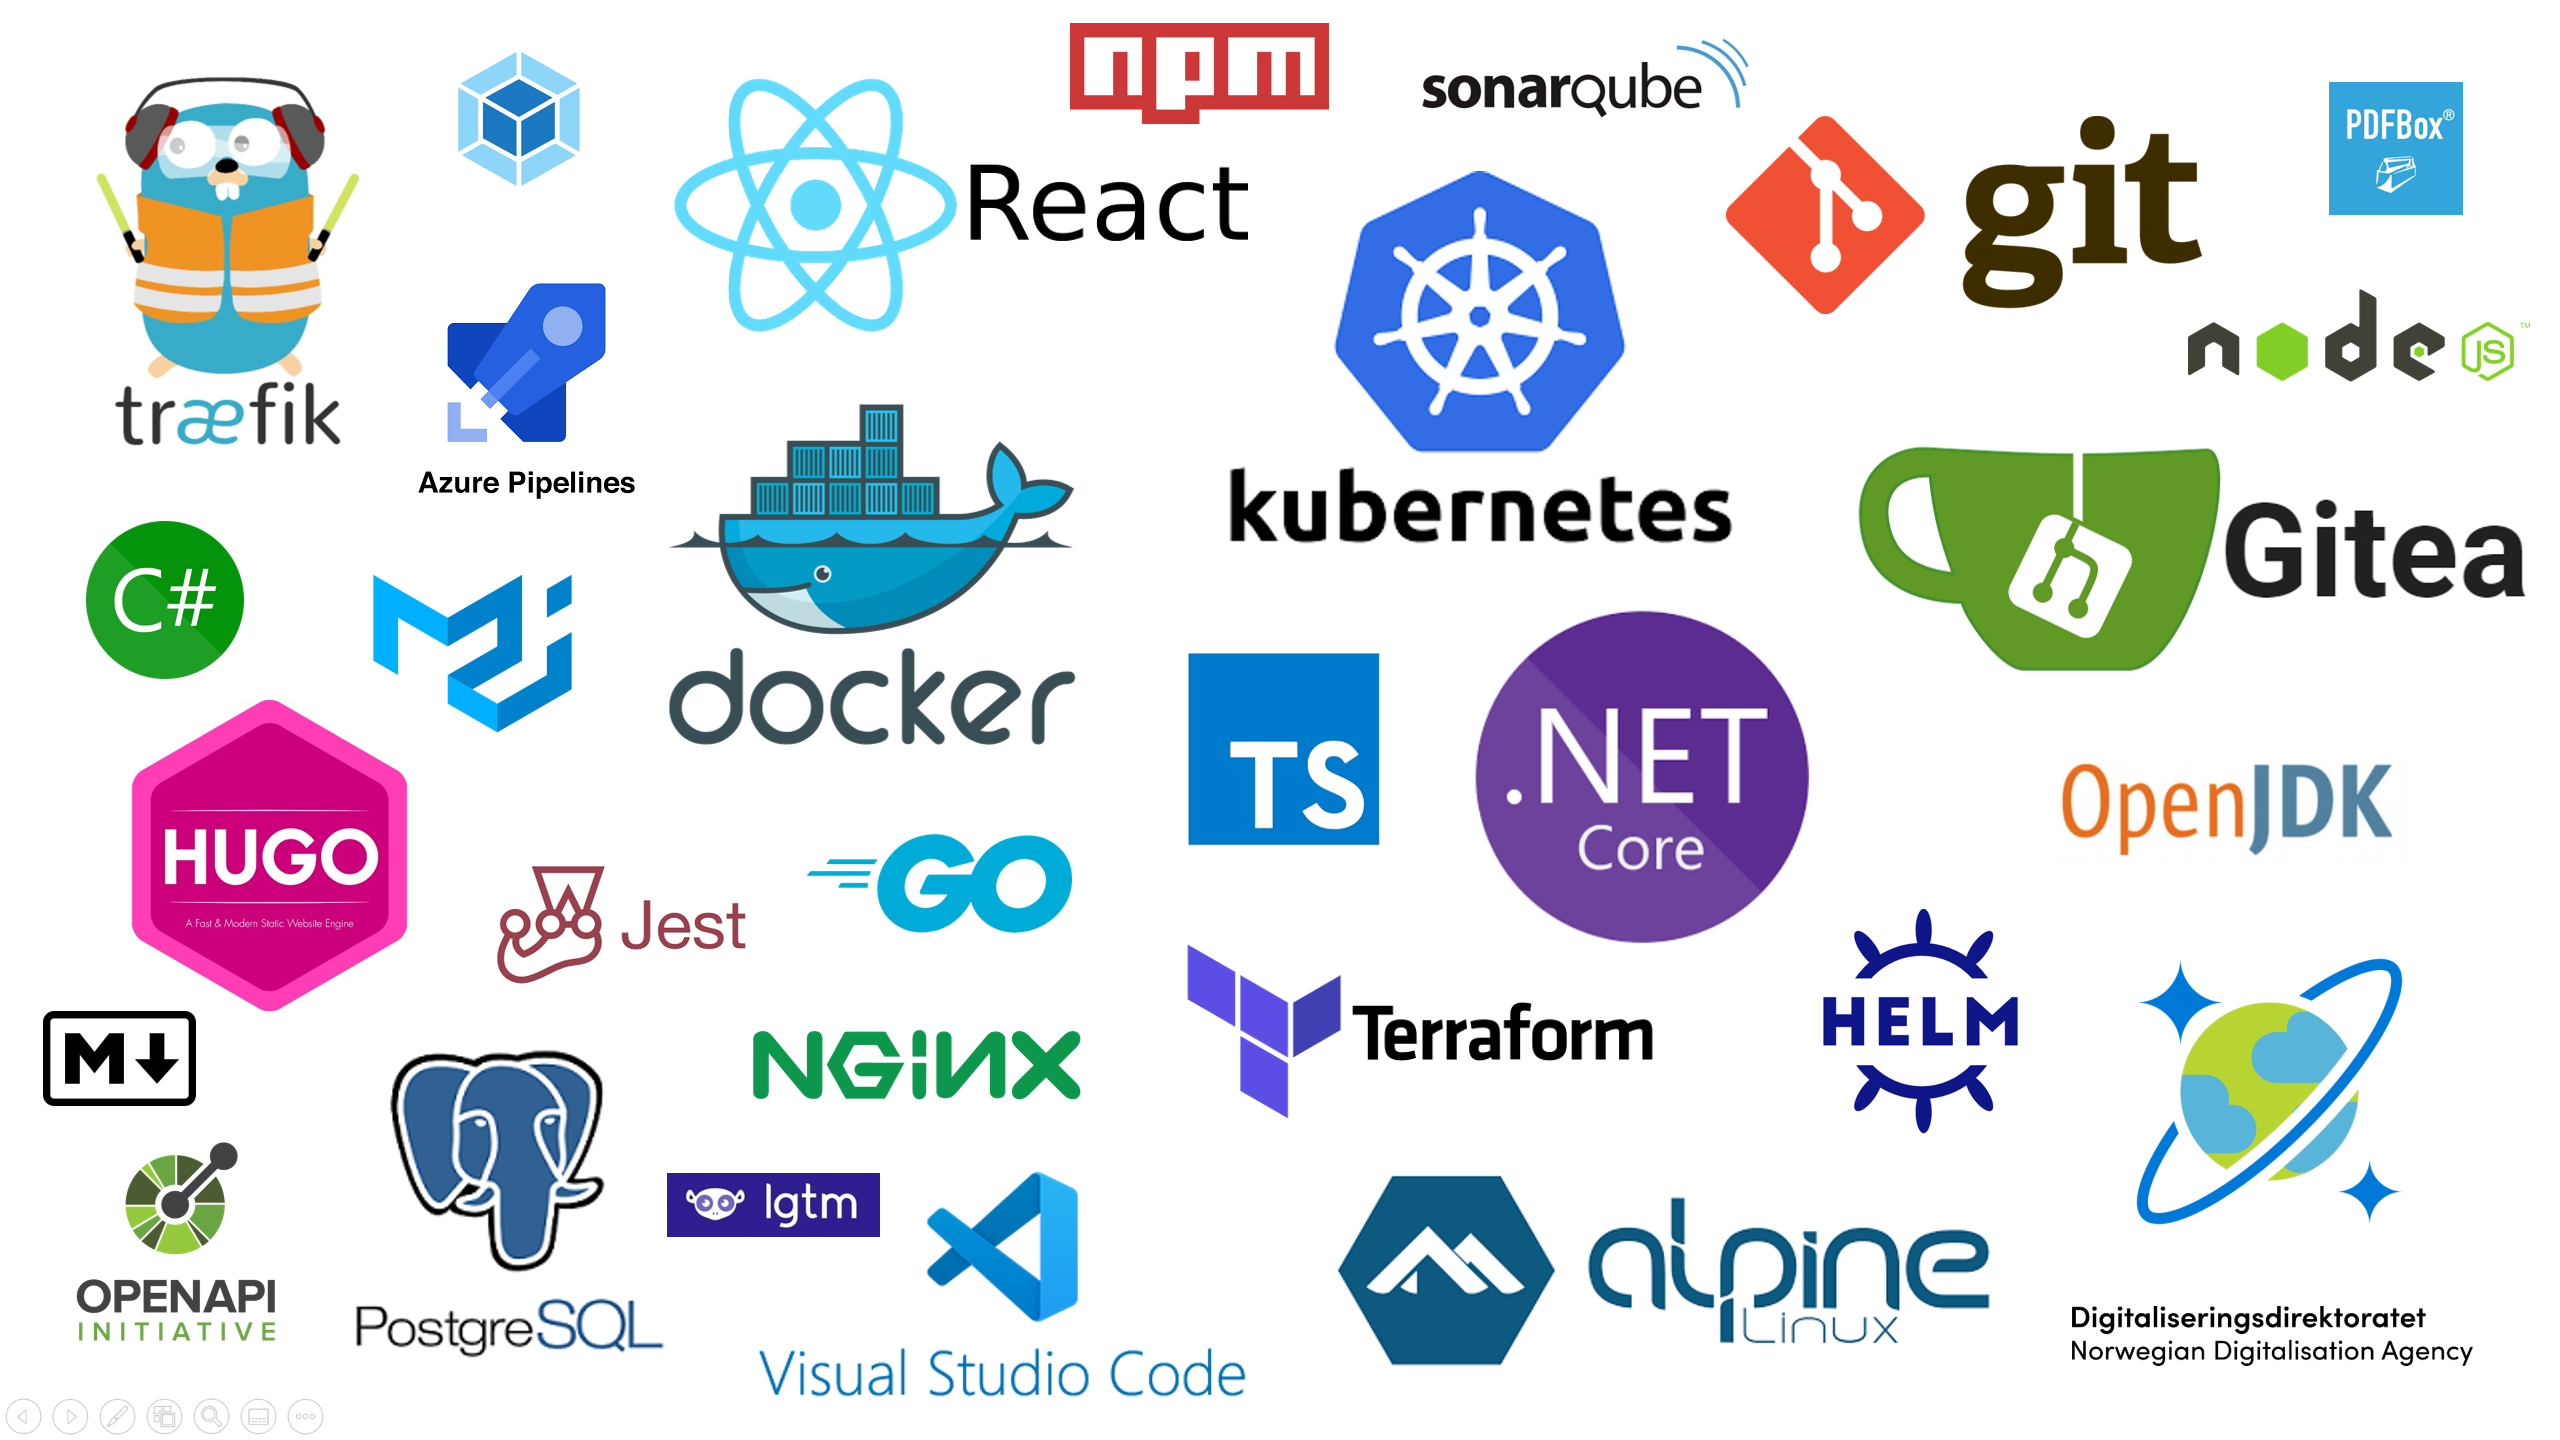
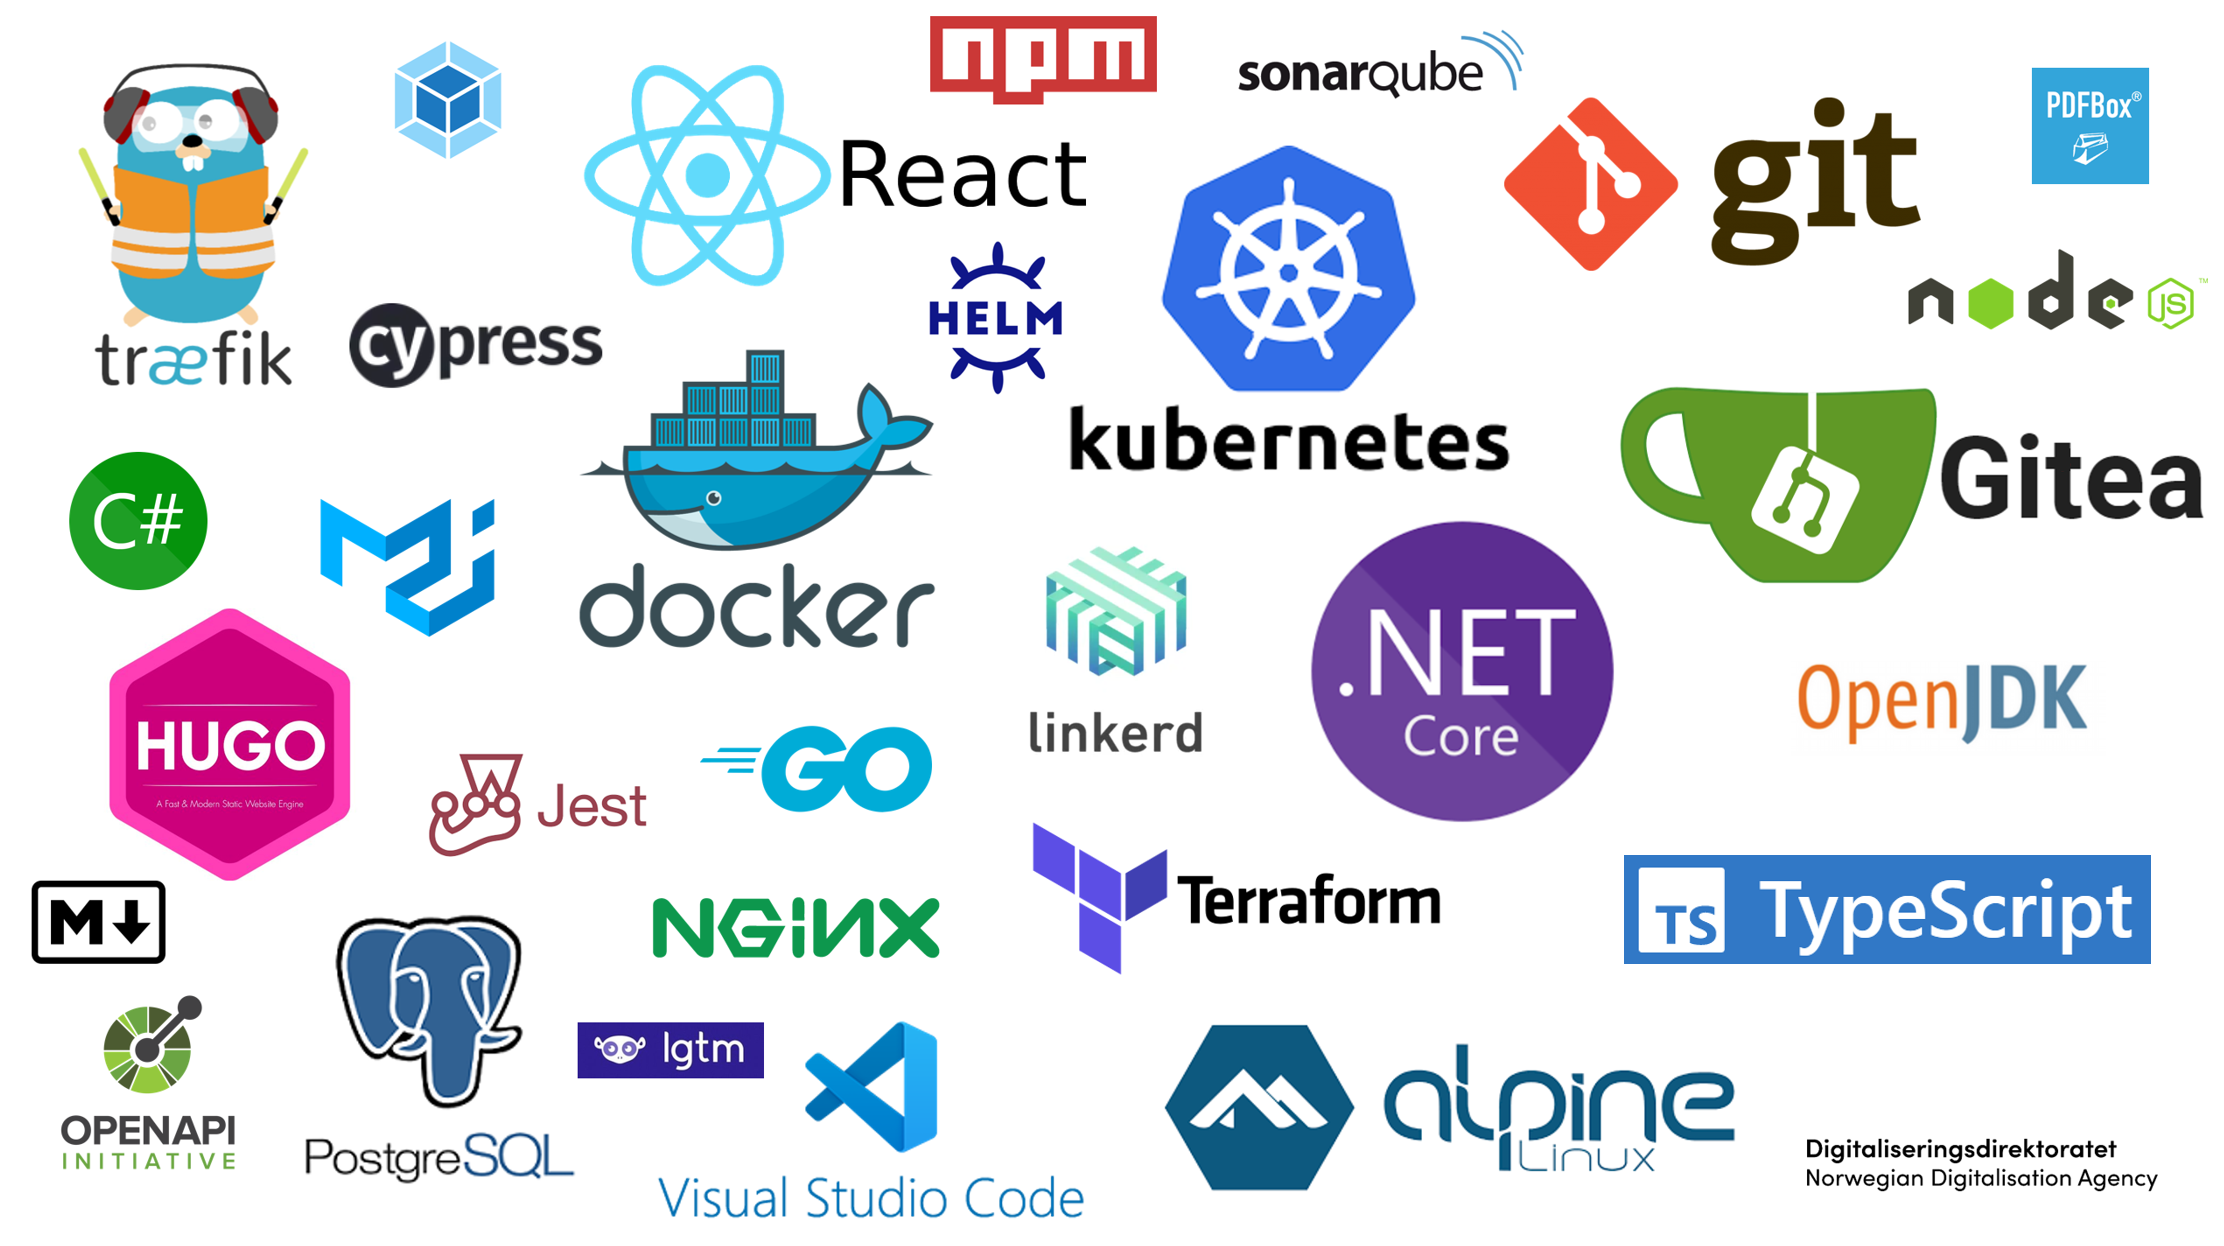
updated-tech-map (#213)
* Updated tech map

* Fixed desc

diff --git a/content/teknologi/altinnstudio/toolsandframeworks/_index.md b/content/teknologi/altinnstudio/toolsandframeworks/_index.md
@@ -1,6 +1,6 @@
 ---
 title: Tools and frameworks
-description: The technology used in Altinn Studio, Altinn Apps and Altinn Platform.
+description: The open source tech used in Altinn Studio, Altinn Apps and Altinn Platform.
 tags: [tech]
 aliases:
  - /technology/
@@ -9,4 +9,4 @@ aliases:
 
 ![Tech map](tech-map.png "The technology used in Altinn 3")
 
-{{% children description="true" depth="1" %}}
+{{<children>}}
